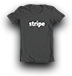
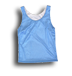
Edited Shop Design to match current items for sale

diff --git a/templates/home.html b/templates/home.html
@@ -37,9 +37,6 @@
     <div class="add-to-bag-helper"><div class="image"></div></div>
 
     <div class="interface">
-      <div class="logo">
-        <a class="shop" href="/">Shop</a>
-      </div>
 
       <!-- bag -->
       <div id="bag" class="bag">

diff --git a/static/js/animation.js b/static/js/animation.js
@@ -4,7 +4,7 @@ $(function() {
 
   // possible a random showcase image to use
   var imageChoices = [
-    { url: 'llamas.jpg', left: '33%', right: '33%' },
+    { url: 'alma_day.jpg', left: '33%', right: '33%' },
   ];
 
   var userSelected = false;
